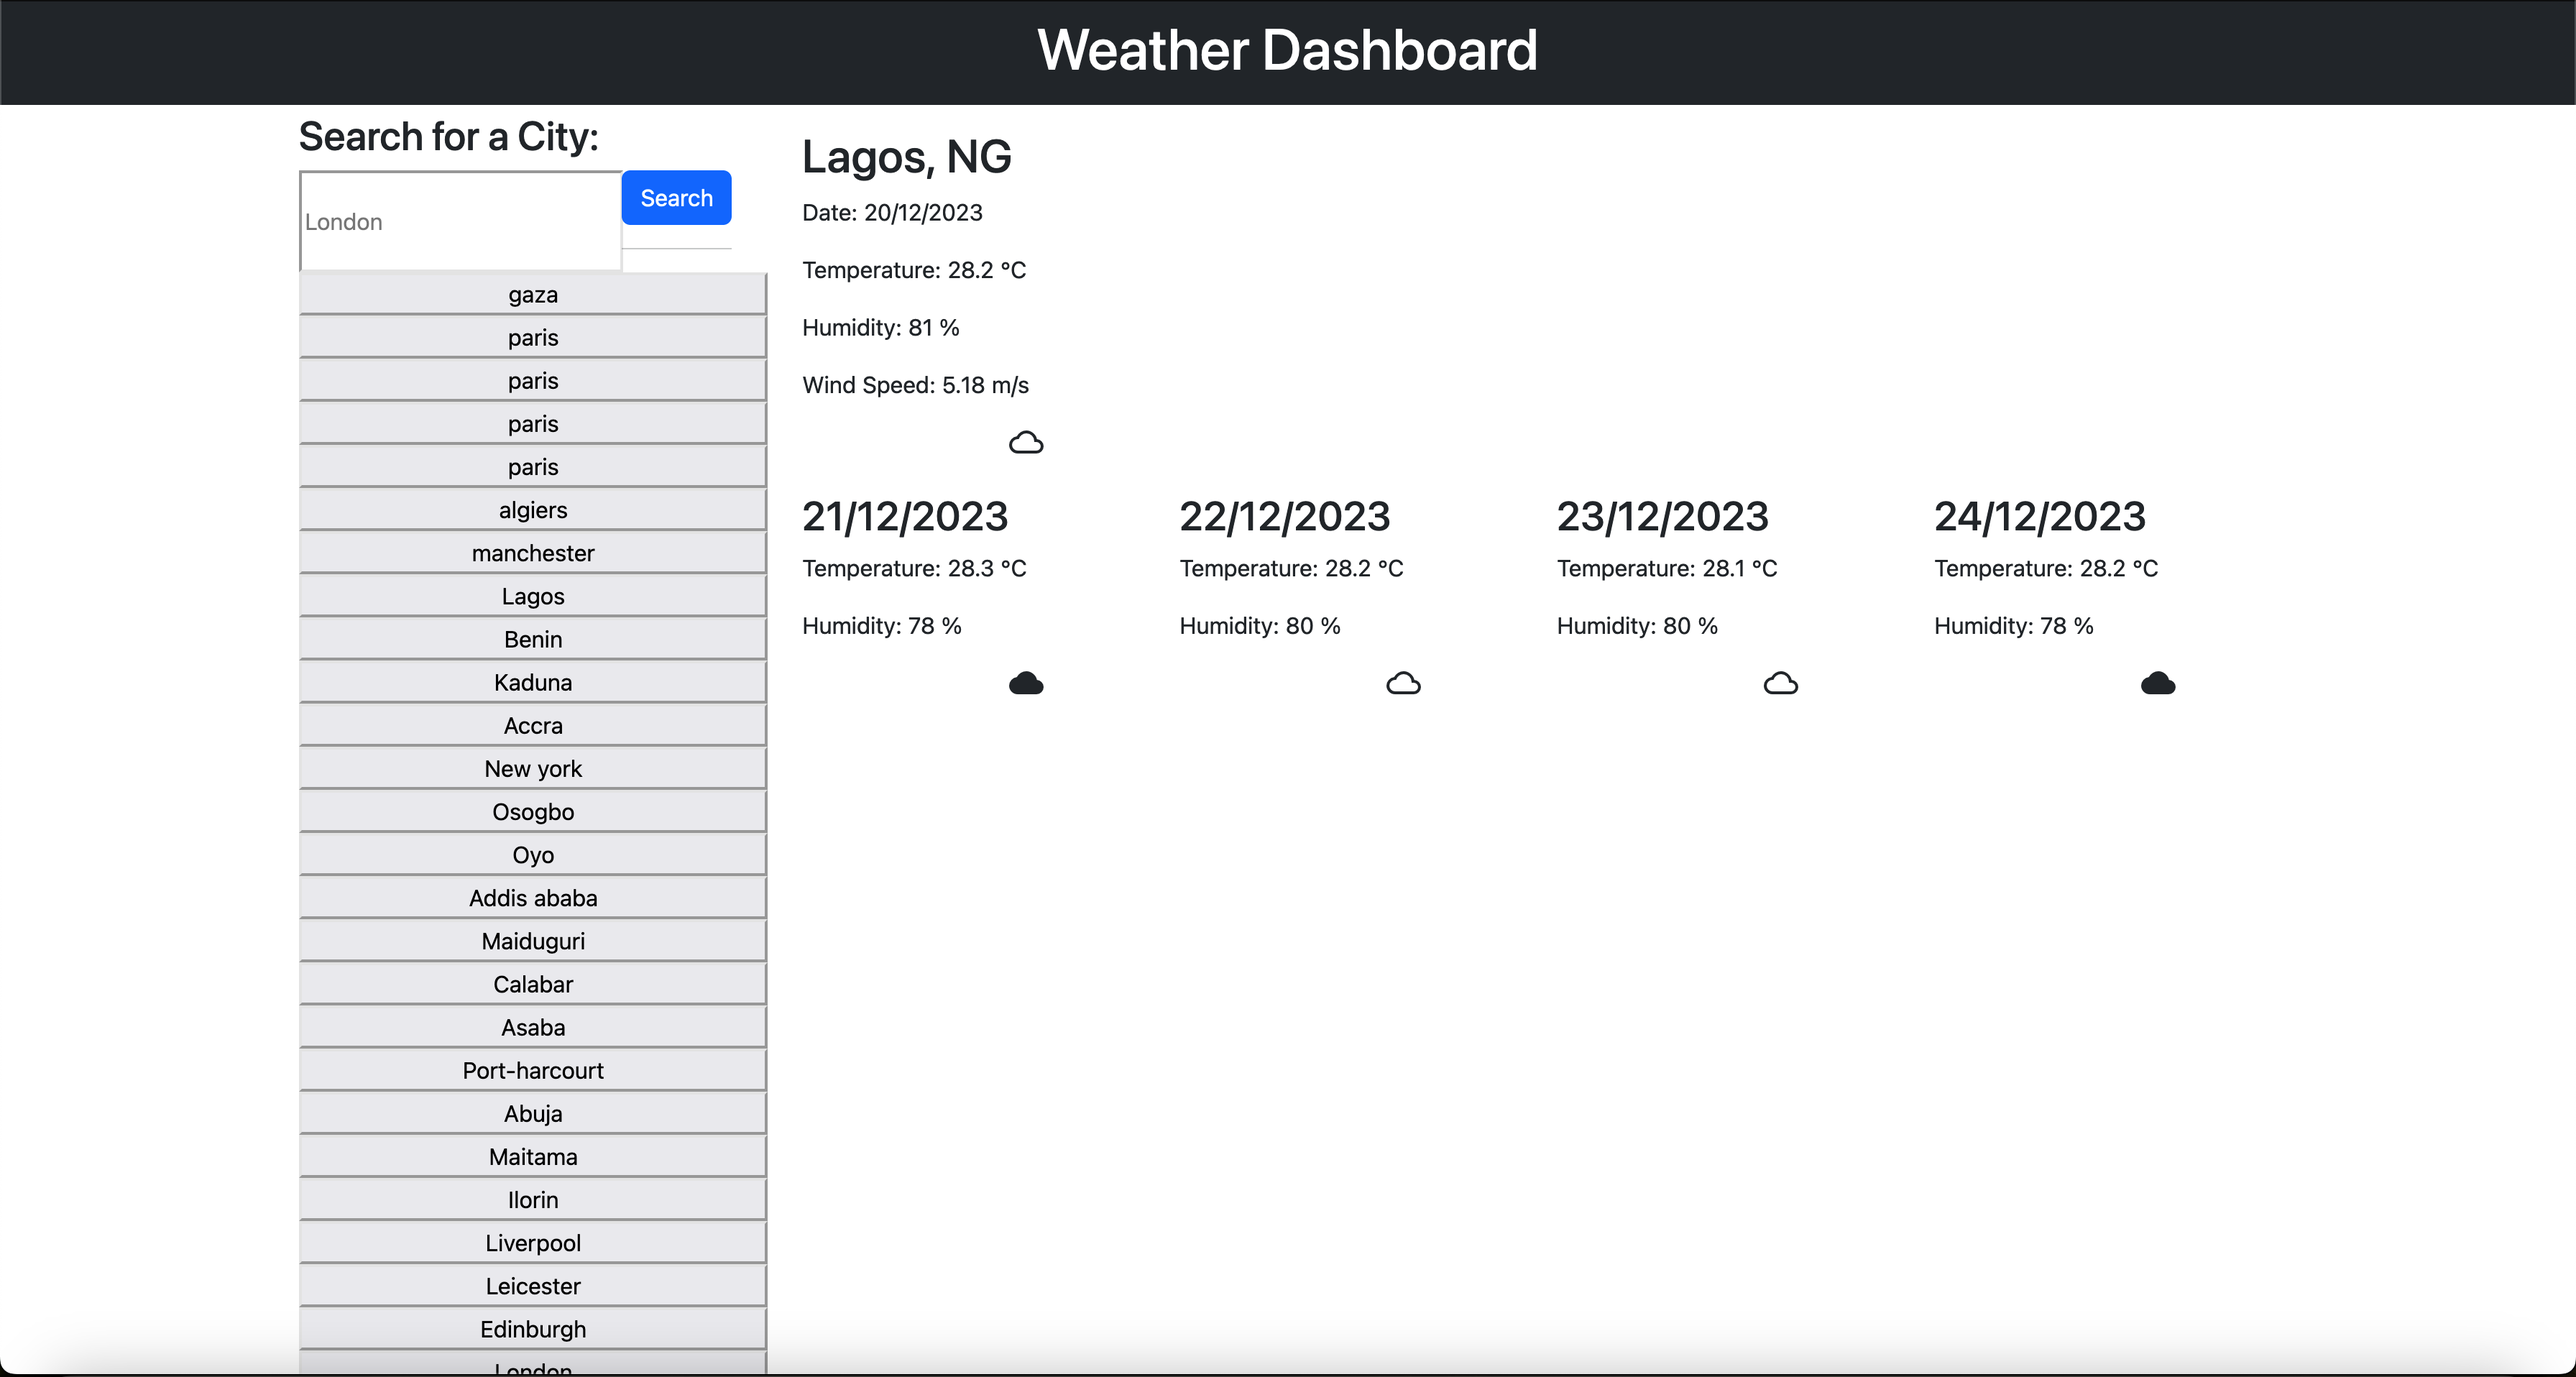
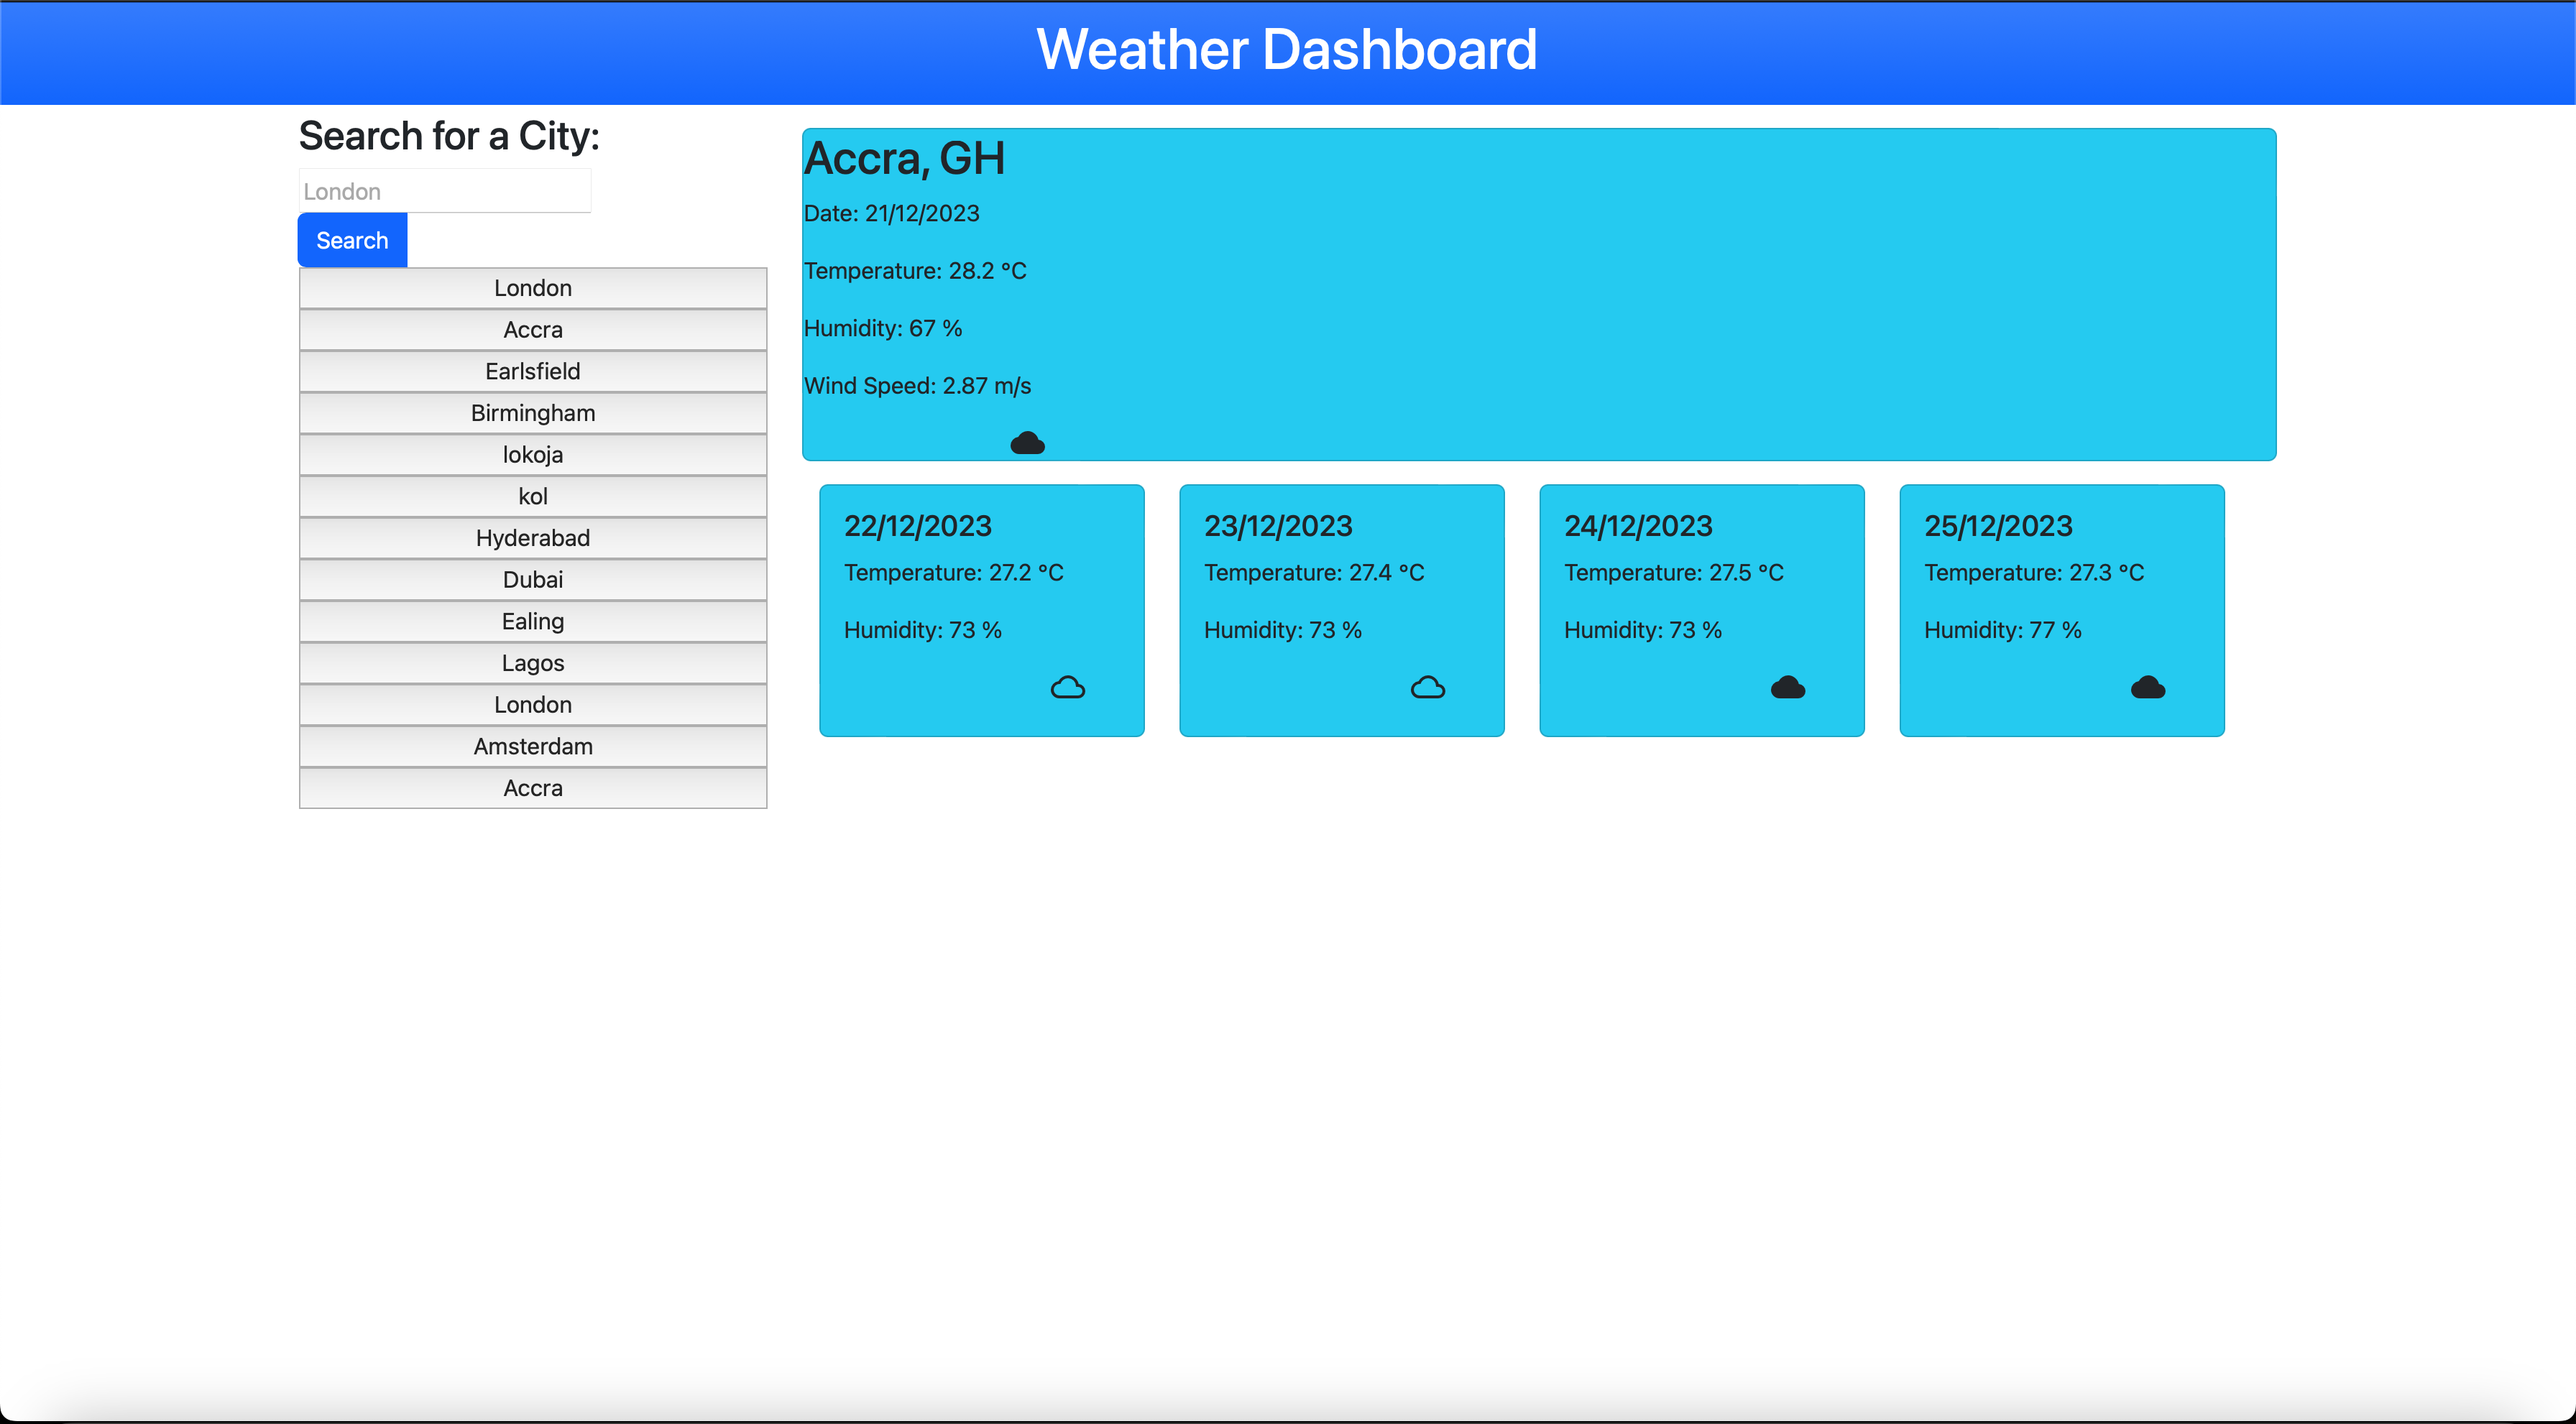
some changes

diff --git a/scripts/script.js b/scripts/script.js
@@ -74,47 +74,61 @@ async function getWeatherForecast(lat, lon) {
 
 // Function to update the UI with weather data
 function updateWeatherUI(weatherData) {
-    try {
-      const currentConditions = weatherData.list[0];
-  
-      // Convert temperature from Kelvin to Celsius
-      const temperatureCelsius = currentConditions.main.temp - 273.15;
-  
-      // Update current conditions UI
-      document.getElementById('today').innerHTML = `
-        <h2>${weatherData.city.name}, ${weatherData.city.country}</h2>
-        <p>Date: ${new Date(currentConditions.dt * 1000).toLocaleDateString()}</p>
-        <p>Temperature: ${temperatureCelsius.toFixed(1)} °C</p>
-        <p>Humidity: ${currentConditions.main.humidity} %</p>
-        <p>Wind Speed: ${currentConditions.wind.speed} m/s</p>
-        <i class="material-icons">${iconMappings[currentConditions.weather[0].icon]}</i>
-      `;
-  
-      // Update 5-day forecast UI
-      const forecastContainer = document.getElementById('forecast');
-      forecastContainer.innerHTML = '';
-  
-      for (let i = 1; i < 6; i++) {
-        const forecast = weatherData.list[i * 8];
-  
-        if (forecast) {
-          // Convert temperature from Kelvin to Celsius
-          const forecastTemperatureCelsius = forecast.main.temp - 273.15;
-  
-          forecastContainer.innerHTML += `
-            <div class="col">
-              <h3>${new Date(forecast.dt * 1000).toLocaleDateString()}</h3>
-              <p>Temperature: ${forecastTemperatureCelsius.toFixed(1)} °C</p>
-              <p>Humidity: ${forecast.main.humidity} %</p>
+  try {
+    const currentConditions = weatherData.list[0];
+
+    // Convert temperature from Kelvin to Celsius
+    const temperatureCelsius = currentConditions.main.temp - 273.15;
+
+    // Update current conditions UI
+    document.getElementById('today').innerHTML = `
+      <h2 class="card-title" >${weatherData.city.name}, ${weatherData.city.country}</h2>
+      <p class="card-text">Date: ${new Date(currentConditions.dt * 1000).toLocaleDateString()}</p>
+      <p class="card-text">Temperature: ${temperatureCelsius.toFixed(1)} °C</p>
+      <p class="card-text">Humidity: ${currentConditions.main.humidity} %</p>
+      <p class="card-text">Wind Speed: ${currentConditions.wind.speed} m/s</p>
+      <i class="material-icons">${iconMappings[currentConditions.weather[0].icon]}</i>
+    `;
+
+    // Update 5-day forecast UI
+    const forecastContainer = document.getElementById('forecast');
+    forecastContainer.innerHTML = '';
+
+    const row = document.createElement('div');
+    row.className = 'row';
+
+    for (let i = 1; i < 6; i++) {
+      const forecast = weatherData.list[i * 8];
+
+      if (forecast) {
+        // Convert temperature from Kelvin to Celsius
+        const forecastTemperatureCelsius = forecast.main.temp - 273.15;
+
+        // Create a Bootstrap card for each forecast
+        const card = document.createElement('div');
+        card.className = 'col-md-3'; // Adjust the column size as needed
+
+        card.innerHTML = `
+          <div class="card bg-info">
+            <div class="card-body">
+              <h5 class="card-title">${new Date(forecast.dt * 1000).toLocaleDateString()}</h5>
+              <p class="card-text">Temperature: ${forecastTemperatureCelsius.toFixed(1)} °C</p>
+              <p class="card-text">Humidity: ${forecast.main.humidity} %</p>
               <i class="material-icons">${iconMappings[forecast.weather[0].icon]}</i>
             </div>
-          `;
-        }
+          </div>
+        `;
+
+        row.appendChild(card);
       }
-    } catch (error) {
-      console.error('Error updating UI:', error);
     }
+
+    forecastContainer.appendChild(row);
+  } catch (error) {
+    console.error('Error updating UI:', error);
+  }
 }
+
 
 // Function to save data to localStorage
 function saveToLocalStorage(key, value) {

diff --git a/index.html b/index.html
@@ -11,11 +11,12 @@
   <!-- Bootstrap Icons CSS -->
   <!-- <link href="https://cdn.jsdelivr.net/npm/bootstrap-icons@1.15.0/dist/css/bootstrap-icons.css" rel="stylesheet"> -->
   <link rel="stylesheet" href="https://fonts.googleapis.com/icon?family=Material+Icons">
+  <link rel="stylesheet" href="styles/reset.css" />
   <title>Weather Dashboard</title>
 </head>
 
 <body>
-  <header class="container-fluid text-center text-white bg-dark p-2 weather-header">
+  <header id="main_header" class="container-fluid text-center text-white bg-primary bg-gradient p-2 weather-header">
     <h1>Weather Dashboard</h1>
   </header>
 
@@ -31,7 +32,7 @@
             <div class="input-group">
               <input class="form-input weather-search" type="text" id="search-input" placeholder="London"
                 aria-labelledby="form-heading" aria-controls="today forecast" />
-              <div class="input-group-append">
+              <div class="input-group">
                 <button type="submit" class="btn btn-primary search-button" id="search-button" aria-label="submit search">
                   Search
                 </button>
@@ -44,8 +45,12 @@
       </aside>
 
       <div class="col-lg-9 pb-3">
-        <section id="today" class="mt-3" role="region" aria-live="polite"></section>
-        <section id="forecast" class="row mt-3" role="region" aria-live="polite"></section>
+        <section id="today" class="card mt-3 bg-info" role="region" aria-live="polite"></section>
+
+        <div class="container-fluid">
+          <section id="forecast" class="row mt-3" role="region" aria-live="polite"></section>
+        </div>
+        
       </div>
     </div>
   </div>
